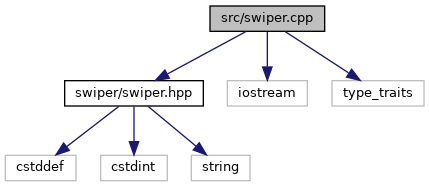
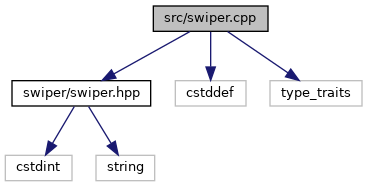
Travis build: 116
Commit: 3e53911a96d9fe0239bc55b5136062446f2b03b2

diff --git a/swiper_8hpp_source.html b/swiper_8hpp_source.html
@@ -71,31 +71,30 @@ $(function() {
 <div class="contents">
 <a href="swiper_8hpp.html">Go to the documentation of this file.</a><div class="fragment"><div class="line"><a name="l00001"></a><span class="lineno">    1</span>&#160;<span class="preprocessor">#pragma once</span></div>
 <div class="line"><a name="l00002"></a><span class="lineno">    2</span>&#160; </div>
-<div class="line"><a name="l00010"></a><span class="lineno">   10</span>&#160;<span class="preprocessor">#include &lt;cstddef&gt;</span></div>
-<div class="line"><a name="l00011"></a><span class="lineno">   11</span>&#160;<span class="preprocessor">#include &lt;cstdint&gt;</span></div>
-<div class="line"><a name="l00012"></a><span class="lineno">   12</span>&#160;<span class="preprocessor">#include &lt;string&gt;</span></div>
-<div class="line"><a name="l00013"></a><span class="lineno">   13</span>&#160; </div>
-<div class="line"><a name="l00017"></a><span class="lineno"><a class="line" href="namespaceswiper.html">   17</a></span>&#160;<span class="keyword">namespace </span><a class="code" href="namespaceswiper.html">swiper</a> {</div>
-<div class="line"><a name="l00021"></a><span class="lineno"><a class="line" href="namespaceswiper.html#ab43dcb17f7a89d96bf9cc54ebe6862ee">   21</a></span>&#160;    <span class="keyword">const</span> uint8_t <a class="code" href="namespaceswiper.html#ab43dcb17f7a89d96bf9cc54ebe6862ee">Xlat</a>[32] = {</div>
-<div class="line"><a name="l00022"></a><span class="lineno">   22</span>&#160;        0x64, 0x73, 0x66, 0x64,</div>
-<div class="line"><a name="l00023"></a><span class="lineno">   23</span>&#160;        0x3b, 0x6b, 0x66, 0x6f,</div>
-<div class="line"><a name="l00024"></a><span class="lineno">   24</span>&#160;        0x41, 0x2c, 0x2e, 0x69,</div>
-<div class="line"><a name="l00025"></a><span class="lineno">   25</span>&#160;        0x79, 0x65, 0x77, 0x72,</div>
-<div class="line"><a name="l00026"></a><span class="lineno">   26</span>&#160;        0x6b, 0x6c, 0x64, 0x4a,</div>
-<div class="line"><a name="l00027"></a><span class="lineno">   27</span>&#160;        0x4b, 0x44, 0x48, 0x53,</div>
-<div class="line"><a name="l00028"></a><span class="lineno">   28</span>&#160;        0x55, 0x42, 0x73, 0x00,</div>
-<div class="line"><a name="l00029"></a><span class="lineno">   29</span>&#160;        0x00, 0x00, 0x00, 0x00</div>
-<div class="line"><a name="l00030"></a><span class="lineno">   30</span>&#160;    };</div>
-<div class="line"><a name="l00031"></a><span class="lineno">   31</span>&#160; </div>
-<div class="line"><a name="l00040"></a><span class="lineno">   40</span>&#160;    <span class="keywordtype">void</span> <a class="code" href="namespaceswiper.html#ae42fee18b8ceeef14c5410f67739b998">WarmCache</a>(std::string&amp; password, <span class="keyword">const</span> std::string&amp; hash, int32_t n) noexcept;</div>
-<div class="line"><a name="l00041"></a><span class="lineno">   41</span>&#160; </div>
-<div class="line"><a name="l00052"></a><span class="lineno">   52</span>&#160;    <span class="keywordtype">void</span> <a class="code" href="namespaceswiper.html#a3938a62735238f8bf41714eb02570b98">Decrypt</a>(std::string&amp; password, <span class="keyword">const</span> std::string&amp; hash) noexcept;</div>
-<div class="line"><a name="l00053"></a><span class="lineno">   53</span>&#160;}</div>
+<div class="line"><a name="l00010"></a><span class="lineno">   10</span>&#160;<span class="preprocessor">#include &lt;cstdint&gt;</span></div>
+<div class="line"><a name="l00011"></a><span class="lineno">   11</span>&#160;<span class="preprocessor">#include &lt;string&gt;</span></div>
+<div class="line"><a name="l00012"></a><span class="lineno">   12</span>&#160; </div>
+<div class="line"><a name="l00016"></a><span class="lineno"><a class="line" href="namespaceswiper.html">   16</a></span>&#160;<span class="keyword">namespace </span><a class="code" href="namespaceswiper.html">swiper</a> {</div>
+<div class="line"><a name="l00020"></a><span class="lineno"><a class="line" href="namespaceswiper.html#ab43dcb17f7a89d96bf9cc54ebe6862ee">   20</a></span>&#160;    <span class="keyword">const</span> uint8_t <a class="code" href="namespaceswiper.html#ab43dcb17f7a89d96bf9cc54ebe6862ee">Xlat</a>[32] = {</div>
+<div class="line"><a name="l00021"></a><span class="lineno">   21</span>&#160;        0x64, 0x73, 0x66, 0x64,</div>
+<div class="line"><a name="l00022"></a><span class="lineno">   22</span>&#160;        0x3b, 0x6b, 0x66, 0x6f,</div>
+<div class="line"><a name="l00023"></a><span class="lineno">   23</span>&#160;        0x41, 0x2c, 0x2e, 0x69,</div>
+<div class="line"><a name="l00024"></a><span class="lineno">   24</span>&#160;        0x79, 0x65, 0x77, 0x72,</div>
+<div class="line"><a name="l00025"></a><span class="lineno">   25</span>&#160;        0x6b, 0x6c, 0x64, 0x4a,</div>
+<div class="line"><a name="l00026"></a><span class="lineno">   26</span>&#160;        0x4b, 0x44, 0x48, 0x53,</div>
+<div class="line"><a name="l00027"></a><span class="lineno">   27</span>&#160;        0x55, 0x42, 0x73, 0x00,</div>
+<div class="line"><a name="l00028"></a><span class="lineno">   28</span>&#160;        0x00, 0x00, 0x00, 0x00</div>
+<div class="line"><a name="l00029"></a><span class="lineno">   29</span>&#160;    };</div>
+<div class="line"><a name="l00030"></a><span class="lineno">   30</span>&#160; </div>
+<div class="line"><a name="l00039"></a><span class="lineno">   39</span>&#160;    <span class="keywordtype">void</span> <a class="code" href="namespaceswiper.html#ae42fee18b8ceeef14c5410f67739b998">WarmCache</a>(std::string&amp; password, <span class="keyword">const</span> std::string&amp; hash, int32_t n) noexcept;</div>
+<div class="line"><a name="l00040"></a><span class="lineno">   40</span>&#160; </div>
+<div class="line"><a name="l00051"></a><span class="lineno">   51</span>&#160;    <span class="keywordtype">void</span> <a class="code" href="namespaceswiper.html#a3938a62735238f8bf41714eb02570b98">Decrypt</a>(std::string&amp; password, <span class="keyword">const</span> std::string&amp; hash) noexcept;</div>
+<div class="line"><a name="l00052"></a><span class="lineno">   52</span>&#160;}</div>
 </div><!-- fragment --></div><!-- contents -->
-<div class="ttc" id="anamespaceswiper_html"><div class="ttname"><a href="namespaceswiper.html">swiper</a></div><div class="ttdoc">swiper manages legacy Cisco IOS^tm type 7 passwords.</div><div class="ttdef"><b>Definition:</b> swiper.hpp:17</div></div>
-<div class="ttc" id="anamespaceswiper_html_a3938a62735238f8bf41714eb02570b98"><div class="ttname"><a href="namespaceswiper.html#a3938a62735238f8bf41714eb02570b98">swiper::Decrypt</a></div><div class="ttdeci">void Decrypt(std::string &amp;password, const std::string &amp;hash) noexcept</div><div class="ttdoc">Decrypt reverses Cisco IOS type 7 hashes.</div><div class="ttdef"><b>Definition:</b> swiper.cpp:45</div></div>
-<div class="ttc" id="anamespaceswiper_html_ae42fee18b8ceeef14c5410f67739b998"><div class="ttname"><a href="namespaceswiper.html#ae42fee18b8ceeef14c5410f67739b998">swiper::WarmCache</a></div><div class="ttdeci">void WarmCache(std::string &amp;password, const std::string &amp;hash, int32_t n) noexcept</div><div class="ttdoc">WarmCache accelerates successive Decrypt calls, by prepopulating the system cache.</div><div class="ttdef"><b>Definition:</b> swiper.cpp:39</div></div>
-<div class="ttc" id="anamespaceswiper_html_ab43dcb17f7a89d96bf9cc54ebe6862ee"><div class="ttname"><a href="namespaceswiper.html#ab43dcb17f7a89d96bf9cc54ebe6862ee">swiper::Xlat</a></div><div class="ttdeci">const uint8_t Xlat[32]</div><div class="ttdoc">Xlat is a fixed XOR key.</div><div class="ttdef"><b>Definition:</b> swiper.hpp:21</div></div>
+<div class="ttc" id="anamespaceswiper_html"><div class="ttname"><a href="namespaceswiper.html">swiper</a></div><div class="ttdoc">swiper manages legacy Cisco IOS^tm type 7 passwords.</div><div class="ttdef"><b>Definition:</b> swiper.hpp:16</div></div>
+<div class="ttc" id="anamespaceswiper_html_a3938a62735238f8bf41714eb02570b98"><div class="ttname"><a href="namespaceswiper.html#a3938a62735238f8bf41714eb02570b98">swiper::Decrypt</a></div><div class="ttdeci">void Decrypt(std::string &amp;password, const std::string &amp;hash) noexcept</div><div class="ttdoc">Decrypt reverses Cisco IOS type 7 hashes.</div><div class="ttdef"><b>Definition:</b> swiper.cpp:39</div></div>
+<div class="ttc" id="anamespaceswiper_html_ae42fee18b8ceeef14c5410f67739b998"><div class="ttname"><a href="namespaceswiper.html#ae42fee18b8ceeef14c5410f67739b998">swiper::WarmCache</a></div><div class="ttdeci">void WarmCache(std::string &amp;password, const std::string &amp;hash, int32_t n) noexcept</div><div class="ttdoc">WarmCache accelerates successive Decrypt calls, by prepopulating the system cache.</div><div class="ttdef"><b>Definition:</b> swiper.cpp:33</div></div>
+<div class="ttc" id="anamespaceswiper_html_ab43dcb17f7a89d96bf9cc54ebe6862ee"><div class="ttname"><a href="namespaceswiper.html#ab43dcb17f7a89d96bf9cc54ebe6862ee">swiper::Xlat</a></div><div class="ttdeci">const uint8_t Xlat[32]</div><div class="ttdoc">Xlat is a fixed XOR key.</div><div class="ttdef"><b>Definition:</b> swiper.hpp:20</div></div>
 <!-- start footer part -->
 <hr class="footer"/><address class="footer"><small>
 Generated by &#160;<a href="http://www.doxygen.org/index.html">

diff --git a/swiper_8cpp.html b/swiper_8cpp.html
@@ -73,20 +73,19 @@ $(function() {
 </div><!--header-->
 <div class="contents">
 <div class="textblock"><code>#include &quot;<a class="el" href="swiper_8hpp_source.html">swiper/swiper.hpp</a>&quot;</code><br />
-<code>#include &lt;iostream&gt;</code><br />
+<code>#include &lt;cstddef&gt;</code><br />
 <code>#include &lt;type_traits&gt;</code><br />
 </div><div class="textblock"><div class="dynheader">
 Include dependency graph for swiper.cpp:</div>
 <div class="dyncontent">
 <div class="center"><img src="swiper_8cpp__incl.png" border="0" usemap="#src_2swiper_8cpp" alt=""/></div>
 <map name="src_2swiper_8cpp" id="src_2swiper_8cpp">
-<area shape="rect" title=" " alt="" coords="210,5,325,32"/>
-<area shape="rect" href="swiper_8hpp.html" title=" " alt="" coords="65,80,203,107"/>
-<area shape="rect" title=" " alt="" coords="227,80,307,107"/>
-<area shape="rect" title=" " alt="" coords="332,80,424,107"/>
-<area shape="rect" title=" " alt="" coords="5,155,76,181"/>
-<area shape="rect" title=" " alt="" coords="101,155,167,181"/>
-<area shape="rect" title=" " alt="" coords="191,155,250,181"/>
+<area shape="rect" title=" " alt="" coords="153,5,268,32"/>
+<area shape="rect" href="swiper_8hpp.html" title=" " alt="" coords="12,80,151,107"/>
+<area shape="rect" title=" " alt="" coords="175,80,246,107"/>
+<area shape="rect" title=" " alt="" coords="270,80,362,107"/>
+<area shape="rect" title=" " alt="" coords="5,155,72,181"/>
+<area shape="rect" title=" " alt="" coords="96,155,155,181"/>
 </map>
 </div>
 </div><table class="memberdecls">

diff --git a/swiper_8hpp.html b/swiper_8hpp.html
@@ -73,18 +73,16 @@ $(function() {
 <div class="title">swiper.hpp File Reference</div>  </div>
 </div><!--header-->
 <div class="contents">
-<div class="textblock"><code>#include &lt;cstddef&gt;</code><br />
-<code>#include &lt;cstdint&gt;</code><br />
+<div class="textblock"><code>#include &lt;cstdint&gt;</code><br />
 <code>#include &lt;string&gt;</code><br />
 </div><div class="textblock"><div class="dynheader">
 Include dependency graph for swiper.hpp:</div>
 <div class="dyncontent">
 <div class="center"><img src="swiper_8hpp__incl.png" border="0" usemap="#include_2swiper_2swiper_8hpp" alt=""/></div>
 <map name="include_2swiper_2swiper_8hpp" id="include_2swiper_2swiper_8hpp">
-<area shape="rect" title=" " alt="" coords="39,5,229,32"/>
-<area shape="rect" title=" " alt="" coords="5,80,76,107"/>
-<area shape="rect" title=" " alt="" coords="101,80,167,107"/>
-<area shape="rect" title=" " alt="" coords="191,80,250,107"/>
+<area shape="rect" title=" " alt="" coords="5,5,196,32"/>
+<area shape="rect" title=" " alt="" coords="25,80,91,107"/>
+<area shape="rect" title=" " alt="" coords="115,80,174,107"/>
 </map>
 </div>
 </div><div class="textblock"><div class="dynheader">

diff --git a/main_8cpp.html b/main_8cpp.html
@@ -83,10 +83,9 @@ Include dependency graph for main.cpp:</div>
 <area shape="rect" title=" " alt="" coords="107,5,258,47"/>
 <area shape="rect" href="main_8hpp.html" title=" " alt="" coords="5,95,88,121"/>
 <area shape="rect" title=" " alt="" coords="112,95,181,121"/>
-<area shape="rect" title=" " alt="" coords="197,169,256,196"/>
+<area shape="rect" title=" " alt="" coords="199,169,257,196"/>
 <area shape="rect" href="swiper_8hpp.html" title=" " alt="" coords="256,95,395,121"/>
-<area shape="rect" title=" " alt="" coords="285,169,355,196"/>
-<area shape="rect" title=" " alt="" coords="380,169,447,196"/>
+<area shape="rect" title=" " alt="" coords="292,169,359,196"/>
 </map>
 </div>
 </div><table class="memberdecls">

diff --git a/README.md b/README.md
@@ -1,1 +1,1 @@
-Sun 14 Mar 2021 10:53:57 PM UTC
+Sun 14 Mar 2021 11:15:31 PM UTC
